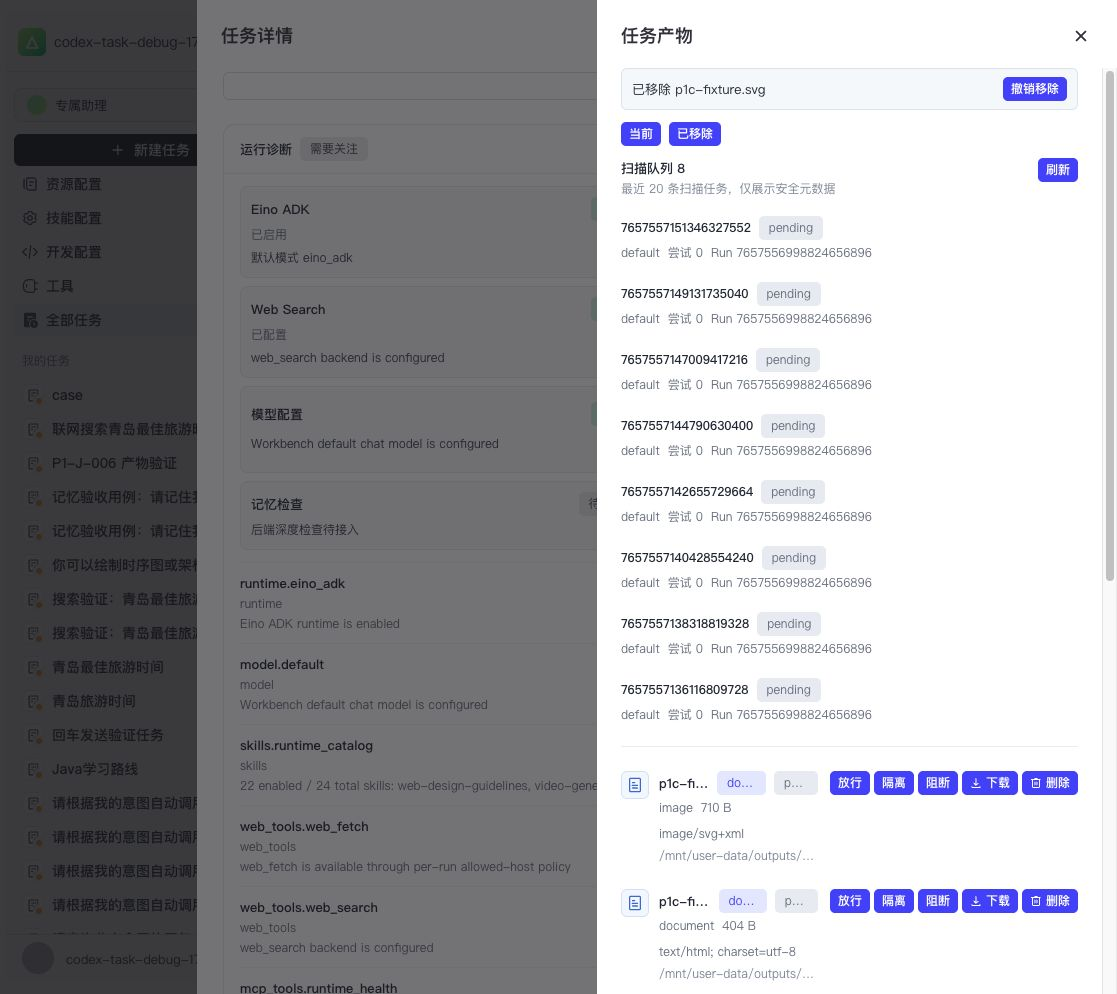
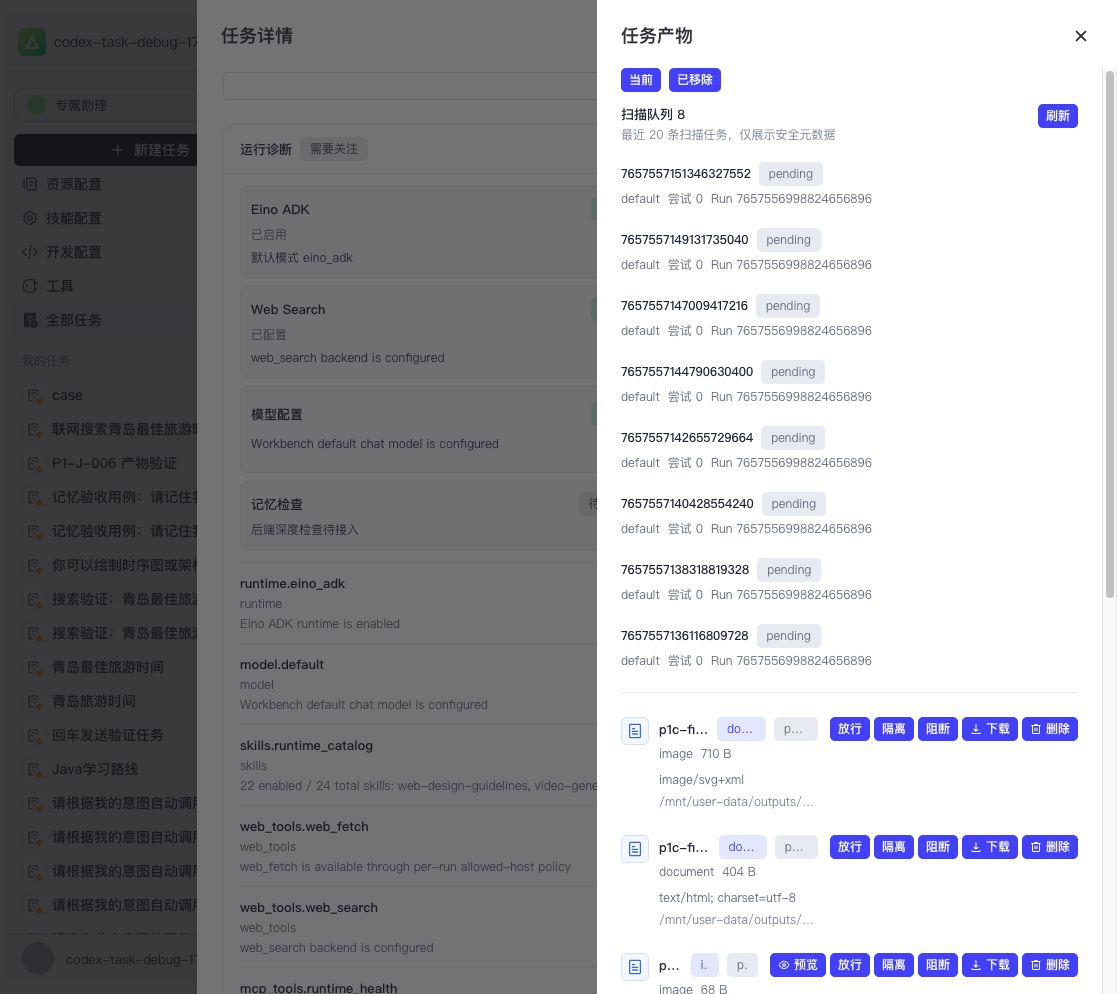
fix: harden artifact copy fallback

Changed region(s): [[0.5479, 0.0624, 0.974, 1.0], [0.8827, 0.0624, 0.974, 0.1247], [0.9132, 0.1559, 0.974, 0.1871]]

diff --git a/frontend/apps/coze-studio/src/pages/tasks/__tests__/task-clipboard.test.ts b/frontend/apps/coze-studio/src/pages/tasks/__tests__/task-clipboard.test.ts
@@ -1,0 +1,77 @@
+/*
+ * Copyright 2025 coze-dev Authors
+ *
+ * Licensed under the Apache License, Version 2.0 (the "License");
+ * you may not use this file except in compliance with the License.
+ * You may obtain a copy of the License at
+ *
+ *     http://www.apache.org/licenses/LICENSE-2.0
+ *
+ * Unless required by applicable law or agreed to in writing, software
+ * distributed under the License is distributed on an "AS IS" BASIS,
+ * WITHOUT WARRANTIES OR CONDITIONS OF ANY KIND, either express or implied.
+ * See the License for the specific language governing permissions and
+ * limitations under the License.
+ */
+
+import { afterEach, describe, expect, it, vi } from 'vitest';
+
+import { copyTextToClipboard } from '../task-clipboard';
+
+const restoreClipboard = () => {
+  Object.defineProperty(navigator, 'clipboard', {
+    configurable: true,
+    value: undefined,
+  });
+};
+
+const mockExecCommand = (result = true) => {
+  const execCommand = vi.fn().mockReturnValue(result);
+  Object.defineProperty(document, 'execCommand', {
+    configurable: true,
+    value: execCommand,
+  });
+  return execCommand;
+};
+
+afterEach(() => {
+  vi.restoreAllMocks();
+  restoreClipboard();
+  document.body.innerHTML = '';
+});
+
+describe('copyTextToClipboard', () => {
+  it('falls back to a temporary textarea when Clipboard API is unavailable', async () => {
+    restoreClipboard();
+    const execCommand = mockExecCommand();
+
+    await expect(copyTextToClipboard('artifact preview')).resolves.toBe(true);
+
+    expect(execCommand).toHaveBeenCalledWith('copy');
+    expect(document.querySelector('textarea')).toBeNull();
+  });
+
+  it('falls back when Clipboard API rejects', async () => {
+    const writeText = vi.fn().mockRejectedValue(new Error('denied'));
+    Object.defineProperty(navigator, 'clipboard', {
+      configurable: true,
+      value: { writeText },
+    });
+    const execCommand = mockExecCommand();
+
+    await expect(copyTextToClipboard('retry preview copy')).resolves.toBe(true);
+
+    expect(writeText).toHaveBeenCalledWith('retry preview copy');
+    expect(execCommand).toHaveBeenCalledWith('copy');
+  });
+
+  it('returns false instead of throwing when no copy mechanism is available', async () => {
+    restoreClipboard();
+    Object.defineProperty(document, 'execCommand', {
+      configurable: true,
+      value: undefined,
+    });
+
+    await expect(copyTextToClipboard('blocked copy')).resolves.toBe(false);
+  });
+});

diff --git a/frontend/apps/coze-studio/src/pages/tasks/task-clipboard.ts b/frontend/apps/coze-studio/src/pages/tasks/task-clipboard.ts
@@ -1,0 +1,55 @@
+/*
+ * Copyright 2025 coze-dev Authors
+ *
+ * Licensed under the Apache License, Version 2.0 (the "License");
+ * you may not use this file except in compliance with the License.
+ * You may obtain a copy of the License at
+ *
+ *     http://www.apache.org/licenses/LICENSE-2.0
+ *
+ * Unless required by applicable law or agreed to in writing, software
+ * distributed under the License is distributed on an "AS IS" BASIS,
+ * WITHOUT WARRANTIES OR CONDITIONS OF ANY KIND, either express or implied.
+ * See the License for the specific language governing permissions and
+ * limitations under the License.
+ */
+
+const copyTextWithTextareaFallback = (text: string) => {
+  if (typeof document.execCommand !== 'function') {
+    return false;
+  }
+
+  const textarea = document.createElement('textarea');
+  textarea.value = text;
+  textarea.setAttribute('readonly', '');
+  textarea.style.position = 'fixed';
+  textarea.style.left = '-9999px';
+  textarea.style.top = '0';
+  document.body.appendChild(textarea);
+  textarea.select();
+  textarea.setSelectionRange(0, text.length);
+
+  try {
+    return document.execCommand('copy');
+  } finally {
+    textarea.remove();
+  }
+};
+
+export const copyTextToClipboard = async (text: string) => {
+  if (!text) {
+    return false;
+  }
+
+  try {
+    await navigator.clipboard?.writeText(text);
+    if (navigator.clipboard?.writeText) {
+      return true;
+    }
+  } catch (err) {
+    // Permission denials are expected in embedded browsers; fallback handles it.
+    void err;
+  }
+
+  return copyTextWithTextareaFallback(text);
+};

diff --git a/frontend/apps/coze-studio/src/pages/tasks/task-artifact-inline-preview.tsx b/frontend/apps/coze-studio/src/pages/tasks/task-artifact-inline-preview.tsx
@@ -25,6 +25,7 @@ import {
 import { Button, Table } from '@coze-arch/coze-design';
 
 import { TaskMarkdownContent } from './task-markdown-content';
+import { copyTextToClipboard } from './task-clipboard';
 import type { ArtifactInlinePreview } from './task-artifacts-helpers';
 
 interface ArtifactPreviewBaseState {
@@ -98,7 +99,10 @@ export const TaskArtifactInlinePreview = ({
       return;
     }
 
-    await navigator.clipboard?.writeText(text);
+    const didCopy = await copyTextToClipboard(text);
+    if (!didCopy) {
+      return;
+    }
     setCopied(true);
     window.setTimeout(() => setCopied(false), 1600);
   };

diff --git a/frontend/apps/coze-studio/src/pages/tasks/task-markdown-content.tsx b/frontend/apps/coze-studio/src/pages/tasks/task-markdown-content.tsx
@@ -20,6 +20,8 @@ import type mermaid from 'mermaid';
 import { IconCozCopy, IconCozDownload } from '@coze-arch/coze-design/icons';
 import { MdBoxLazy } from '@coze-arch/bot-md-box-adapter/lazy';
 
+import { copyTextToClipboard } from './task-clipboard';
+
 type MermaidAPI = typeof mermaid;
 interface MarkdownSegment {
   key: string;
@@ -166,7 +168,7 @@ const TaskMermaidBlock = ({ source }: { source: string }) => {
   }, [renderID, source]);
 
   const handleCopySource = () => {
-    void navigator.clipboard?.writeText(source);
+    void copyTextToClipboard(source);
   };
 
   const handleDownloadSVG = () => {

diff --git a/docs/superpowers/plans/2026-07-01-deerflow-p1-stabilization-tracker.md b/docs/superpowers/plans/2026-07-01-deerflow-p1-stabilization-tracker.md
@@ -54,7 +54,7 @@ quality. P1 must prioritize these two capabilities before broad hardening.
 | P1-J Agent 执行流程对齐 | 已完成 | Coze task runs follow DeerFlow's agent harness semantics: planning/To-dos, step grouping, tool/artifact messages, follow-up context, streaming status, stop/retry, and visible execution quality. | Backend/runtime and visible task-detail parity slices are complete for P1. Remaining browser evidence and regression hardening continue under P1-A/P1-B. |
 | P1-A 浏览器回归与证据基线 | 已完成 | DeerFlow and Coze have paired desktop evidence for the canonical P0 workflows, plus safe Network/API summaries where applicable. | 2026-07-01 completed P1-A-000~008. Authenticated Network/API capture is explicitly N/A for P1-A-001~003 inside the current in-app browser read-only scope; no inferred payloads were recorded. Any future black-box API packet capture moves to P1-D or external QA evidence. |
 | P1-B 任务详情视觉补证 | 进行中 | Task detail screenshots/API summaries cover layout, execution steps, inline thinking, Mermaid, Artifacts, export, token modes, memory entry, loading/error states, and narrow/mobile risk cases. | 2026-07-01 evidence map created at `notes/P1-B-task-detail-visual-evidence-map.md`; existing desktop evidence covers most modules. First `TD-LAYOUT-002` responsive capture attempt was blocked by browser tab binding timeout, so next target remains 390px/768px screenshots and any overlap fix. |
-| P1-C 文档产物 MIME 样本库 | 进行中 | Markdown/TXT/CSV/PDF/image/HTML-SVG blocked/error/delete-restore cases each have UI evidence, API summaries, and unit/API tests. | 2026-07-01 automated source/test coverage map recorded in `notes/P1-C-artifact-mime-sample-map.md`; helper, task-detail, API handler, and application scan-policy tests passed. 2026-07-01 fixture task `7657556998191316992` now covers Markdown/TXT/JSON/CSV/PDF/PNG/HTML/SVG cards; Go ADK `write_file` supports binary `content_base64`; Markdown/TXT/JSON/CSV/PNG/HTML-SVG browser screenshots are recorded. PDF right-side preview is implemented and unit-tested against DeerFlow iframe behavior; current fixture PDF was `scan_pending`, so service/task-detail tests now map bounded scan reasons to safe preview/download copy without weakening backend policy. The management panel review-release path changed the PDF to `clean` and mounted the PDF iframe with no object URI in `src`; screenshot records iframe container, not PDF page pixels. 2026-07-02 captured SVG artifact delete/restore UI lifecycle: remove confirmation, removed-list restore row, and restored active row; the pass found and fixed stale undo notice cleanup after deleted-list restore, with unit regression coverage. Bounded API summaries, PDF pixel-render evidence, blocked scan review, scan retry, clean post-fix restore browser recapture, and copy/download affordance checks remain open. No raw object URI, signed URL, provider payload, or scanner raw body in evidence. |
+| P1-C 文档产物 MIME 样本库 | 进行中 | Markdown/TXT/CSV/PDF/image/HTML-SVG blocked/error/delete-restore cases each have UI evidence, API summaries, and unit/API tests. | 2026-07-01 automated source/test coverage map recorded in `notes/P1-C-artifact-mime-sample-map.md`; helper, task-detail, API handler, and application scan-policy tests passed. 2026-07-01 fixture task `7657556998191316992` now covers Markdown/TXT/JSON/CSV/PDF/PNG/HTML/SVG cards; Go ADK `write_file` supports binary `content_base64`; Markdown/TXT/JSON/CSV/PNG/HTML-SVG browser screenshots are recorded. PDF right-side preview is implemented and unit-tested against DeerFlow iframe behavior; current fixture PDF was `scan_pending`, so service/task-detail tests now map bounded scan reasons to safe preview/download copy without weakening backend policy. The management panel review-release path changed the PDF to `clean` and mounted the PDF iframe with no object URI in `src`; screenshot records iframe container, not PDF page pixels. 2026-07-02 captured SVG artifact delete/restore UI lifecycle: remove confirmation, removed-list restore row, and restored active row; the pass found and fixed stale undo notice cleanup after deleted-list restore, with unit regression coverage and clean post-fix browser recapture. The same fixture records SVG scan review `blocked` -> `clean` with no unsafe visible payload markers. Copy/download affordance evidence is recorded; browser testing exposed a Clipboard API-only copy gap, now fixed with a textarea fallback for document preview and Mermaid source copy, covered by `task-clipboard.test.ts` and focused task-detail tests. Bounded API summaries, PDF pixel-render evidence, and scan retry remain open. No raw object URI, signed URL, provider payload, or scanner raw body in evidence. |
 | P1-D LangGraph 兼容套件 | 待开始 | Black-box tests cover thread/run/history/state/stream/cancel/join behavior beyond DeerFlow-visible P0 paths. | Do not treat LangGraph checkpoint history as the only visible step source. Visible steps still follow the DeerFlow messages/history chain verified in P0. |
 | P1-E Runtime Doctor 深诊断 | 待开始 | Adds live model connectivity, provider capability matrix, sandbox diagnostics, and richer Skill/MCP probes with bounded metadata. | Must fail closed and avoid prompt, credential, tool arg/result, checkpoint, raw provider, and object URI leaks. |
 | P1-F Skills/MCP/Tools 策略与历史 | 待开始 | Adds policy controls, invocation history, output budgets, and deeper transport management where DeerFlow-visible workflows need it. | User has accepted P0 Skills/MCP as good enough; this is hardening, not re-litigating P0 UI. |
@@ -105,9 +105,9 @@ quality. P1 must prioritize these two capabilities before broad hardening.
 | --- | --- | --- |
 | P1-C-001 automated coverage map | 已完成 | Source/test coverage matrix recorded in `docs/superpowers/evidence/2026-06-28-deerflow-task-detail-parity/notes/P1-C-artifact-mime-sample-map.md`. Tests passed: `npm run test -- src/pages/tasks/__tests__/task-artifacts-helpers.test.ts`; `npm run test -- src/pages/tasks/__tests__/task-detail.test.tsx -t 'canonical thread artifacts\|generated document artifacts\|deletes a canonical thread artifact\|restores the last removed\|lists deleted thread artifacts\|reviews a blocked artifact\|renders artifact scan jobs'`; `go test ./api/handler/coze -run 'Test(GetTaskThreadArtifactContentHandler\|GetTaskThreadArtifactSignedURLHandler\|ReviewTaskThreadArtifactScanHandler\|ListTaskThreadArtifactsHandler\|DeleteTaskThreadArtifactHandler\|RetryTaskThreadArtifactScanJobHandler\|ListTaskThreadArtifactScanJobsHandler)' -count=1 -gcflags='all=-N -l'`; `go test ./application/agentthread -run 'Test(ApplicationReadArtifactContent\|ArtifactScanReadPolicy\|ApplicationRecordArtifactScanResult\|ApplicationProcessArtifactScanJobs)' -count=1`. |
 | P1-C-002 real MIME fixture task | 已完成 | Coze task `http://localhost:8080/space/7656275718757679104/tasks/7657556998191316992` contains Markdown, TXT, JSON, CSV, PDF, PNG, HTML, and SVG artifact cards. Go ADK `write_file` now accepts binary `content_base64` and rejects ambiguous/missing content. Evidence: `notes/P1-C-artifact-mime-sample-map.md`; screenshot: `screenshots/coze/P1-C-coze-mime-fixture-task-7657556998191316992.png`. |
-| P1-C-003 UI screenshots per MIME family | 进行中 | Browser screenshots recorded for full card placement, Markdown preview, TXT/JSON/CSV preview, PNG preview, HTML/SVG download-only active-content safety, and PDF iframe mount after review release. Scan-pending safe blocked-state copy is covered by service/task-detail tests. Remaining: PDF page-pixel render capture and copy/download affordance checks. Evidence: `notes/P1-C-artifact-mime-sample-map.md`; screenshots under `screenshots/coze/P1-C-coze-*-7657556998191316992.png`. |
+| P1-C-003 UI screenshots per MIME family | 进行中 | Browser screenshots recorded for full card placement, Markdown preview, TXT/JSON/CSV preview, PNG preview, HTML/SVG download-only active-content safety, PDF iframe mount after review release, and copy/download affordances. Scan-pending safe blocked-state copy is covered by service/task-detail tests. Remaining: PDF page-pixel render capture. Evidence: `notes/P1-C-artifact-mime-sample-map.md`; screenshots under `screenshots/coze/P1-C-coze-*-7657556998191316992.png`. |
 | P1-C-004 bounded API summaries | 待开始 | Artifact list/content/signed URL/scan-block/delete/restore summaries recorded without raw object URI, signed URL, provider body, scanner raw body, prompt, completion, or checkpoint bytes. |
-| P1-C-005 lifecycle and scan state UI | 进行中 | PDF scan review-release path has real browser evidence from task `7657556998191316992`: `pending` -> `clean`, review buttons removed, and iframe preview mounted without object URI exposure. SVG delete/restore lifecycle evidence is recorded: remove confirmation, removed-list restore row, and restored active row with actions; stale undo notice cleanup after deleted-list restore is fixed and covered by a unit regression. Remaining: blocked scan review, scan retry, clean post-fix restore browser recapture, and bounded error states. |
+| P1-C-005 lifecycle and scan state UI | 进行中 | PDF scan review-release path has real browser evidence from task `7657556998191316992`: `pending` -> `clean`, review buttons removed, and iframe preview mounted without object URI exposure. SVG delete/restore lifecycle evidence is recorded: remove confirmation, removed-list restore row, and restored active row with actions; stale undo notice cleanup after deleted-list restore is fixed, covered by a unit regression, and recaptured in browser after reload. SVG scan review evidence is recorded: `blocked` state shows bounded review actions, then `clean` state removes review actions with no unsafe visible payload markers. Remaining: scan retry and bounded error states. |
 
 ## Evidence Locations
 
@@ -146,8 +146,7 @@ Before marking a P1 slice `已完成`, record:
 Continue P1-C document artifact MIME sample library:
 
 - Continue artifact lifecycle evidence from fixture task `7657556998191316992`:
-  blocked review, retry, clean post-fix restore recapture, and copy/download
-  affordance checks.
+  scan retry state and bounded error states.
 - Capture bounded API summaries for artifact list/content/signed URL and the
   scan/delete/restore lifecycle, without raw object URI, signed URL, provider
   payload, scanner body, prompt, completion, or checkpoint bytes.

diff --git a/docs/superpowers/evidence/2026-06-28-deerflow-task-detail-parity/notes/P1-C-artifact-mime-sample-map.md b/docs/superpowers/evidence/2026-06-28-deerflow-task-detail-parity/notes/P1-C-artifact-mime-sample-map.md
@@ -11,8 +11,8 @@ coverage first, then keeps the remaining real-browser sample work explicit.
 This is not a claim that the full sample library is complete. The current
 covered state is an automated safety and rendering baseline plus one real
 browser fixture task covering Markdown, TXT, JSON, CSV, PDF, PNG, HTML, and
-SVG artifact cards. API summaries, visible PDF page-pixel rendering, blocked
-scan review, scan retry, and copy/download affordance checks remain open.
+SVG artifact cards. API summaries, visible PDF page-pixel rendering, and scan
+retry remain open.
 
 ## DeerFlow Reference
 
@@ -74,6 +74,12 @@ Results:
 - `backend/application/agentthread`: passed.
 - `backend/application/agentthread` ADK artifact binary/write-file subset:
   passed.
+- 2026-07-02 copy fallback regression:
+  `npm run test -- src/pages/tasks/__tests__/task-clipboard.test.ts`
+  passed with 3 tests.
+- 2026-07-02 focused copy/download regression:
+  `npm run test -- src/pages/tasks/__tests__/task-detail.test.tsx -t 'renders Mermaid answer markdown through the markdown viewer|renders generated document artifacts in a DeerFlow-style side preview without mixing them with thread export'`
+  passed with 2 tests, 48 skipped.
 
 ## 2026-07-01 Browser Fixture Evidence
 
@@ -126,6 +132,12 @@ Screenshots:
   `screenshots/coze/P1-C-coze-delete-restore-deleted-7657556998191316992.png`
 - SVG delete/restore restored active-list state:
   `screenshots/coze/P1-C-coze-delete-restore-restored-7657556998191316992.png`
+- SVG scan review blocked state:
+  `screenshots/coze/P1-C-coze-scan-review-blocked-7657556998191316992.png`
+- SVG scan review released state:
+  `screenshots/coze/P1-C-coze-scan-review-released-7657556998191316992.png`
+- Copy/download affordance state:
+  `screenshots/coze/P1-C-coze-copy-download-affordance-7657556998191316992.png`
 
 Observed behavior:
 
@@ -174,14 +186,35 @@ Observed behavior:
   `已移除` list; the frontend now clears that notice through the deleted-list
   restore callback, and `task-detail.test.tsx` locks the regression with
   `clears the undo notice when restoring a removed artifact from the deleted list`.
-  A clean post-fix browser recapture is pending because the in-app browser
-  control session timed out during reload.
+  The restored-state screenshot was recaptured after the fix and shows no
+  `撤销移除` notice while the SVG row is back in the active list.
   No raw object URI, signed URL, scanner raw body, provider payload, prompt,
   completion, or checkpoint bytes were recorded in these lifecycle screenshots.
+- The management panel was also used to validate manual scan review for the
+  same SVG sample. Clicking `阻断产物 p1c-fixture.svg` moved the row to
+  `blocked` and left only bounded review/actions visible: `放行`, `隔离`,
+  `下载`, and `删除`. Clicking `放行产物 p1c-fixture.svg` then moved the row to
+  `clean`, removed review actions, and left `下载` / `删除` only. Browser script
+  checks for both states found zero visible hits for `s3://`, `tos://`,
+  `file_id`, `checkpoint`, tool-argument labels, or provider payload markers.
 - The visible page text included `content_base64` because the fixture task
   prompt itself contained base64 inputs for PDF/PNG/HTML/SVG generation. This
   was user-visible test input text, not a provider/tool payload, object URI, or
   signed URL leak.
+- Copy/download affordance checks were run after reloading the task page.
+  Browser DOM evidence showed all 8 artifact message cards expose visible
+  download buttons; the right-side Markdown artifact preview exposes the
+  DeerFlow-style code/preview toggle and a header copy button; the Mermaid block
+  exposes download-SVG and copy-source icon buttons. Clicking
+  `复制文档 p1c-fixture.md` initially left the browser clipboard empty, because
+  the frontend relied only on `navigator.clipboard?.writeText` and silently did
+  nothing when the API was blocked or unavailable. The frontend now routes
+  document-preview copy and Mermaid-source copy through `copyTextToClipboard`,
+  which falls back to a temporary textarea and `document.execCommand('copy')`.
+  The same browser action was recaptured after the fix: clipboard length was
+  `590`, it contained `# P1-C Fixture: Markdown`, and unsafe visible-pattern
+  checks found zero hits for `s3://`, `tos://`, `file_id`, `checkpoint`,
+  `provider_payload`, or `scanner_raw`.
 
 Browser API capture note:
 
@@ -208,15 +241,15 @@ PDF parity note:
 
 ## Remaining P1-C Gaps
 
-1. Capture copy/download affordance checks where the UI exposes copy, and a
-   browser capture that proves PDF page pixels render rather than only iframe
-   mount state.
+1. Capture a browser image that proves PDF page pixels render rather than only
+   iframe mount state.
 2. Record bounded API summaries for artifact list, content, signed URL,
    scan-blocked conflict, review release, delete, and restore. Do not record
    raw object URIs, signed URLs, scanner raw bodies, provider payloads, prompt,
    completion, or checkpoint bytes.
-3. Add real UI evidence for blocked scan review, scan retry state, and a clean
-   post-fix restore capture after browser control reconnects.
+3. Add real UI evidence for scan retry state. The current fixture shows pending
+   scan jobs but no failed job row, so retry remains open until a failed scan
+   job is available.
 4. Replace the prompt-embedded base64 fixture with a cleaner seeded fixture or
    dedicated skill/tool-driven fixture if future evidence needs zero
    `content_base64` visible-text hits.
@@ -225,7 +258,7 @@ PDF parity note:
 
 P1-C is in progress. The automated coverage baseline, Go binary write support,
 one real MIME fixture task, scan-pending safe message mapping, PDF review
-release, browser iframe-mount evidence for the current PDF artifact, and
-delete/restore UI lifecycle evidence are partially complete. API summaries, PDF
-pixel-render evidence, blocked scan review, scan retry, clean post-fix restore
-browser recapture, and copy/download affordance checks are still open.
+release, browser iframe-mount evidence for the current PDF artifact,
+delete/restore UI lifecycle evidence, manual scan review evidence, and
+copy/download affordance checks are complete. API summaries, PDF pixel-render
+evidence, and scan retry are still open.
